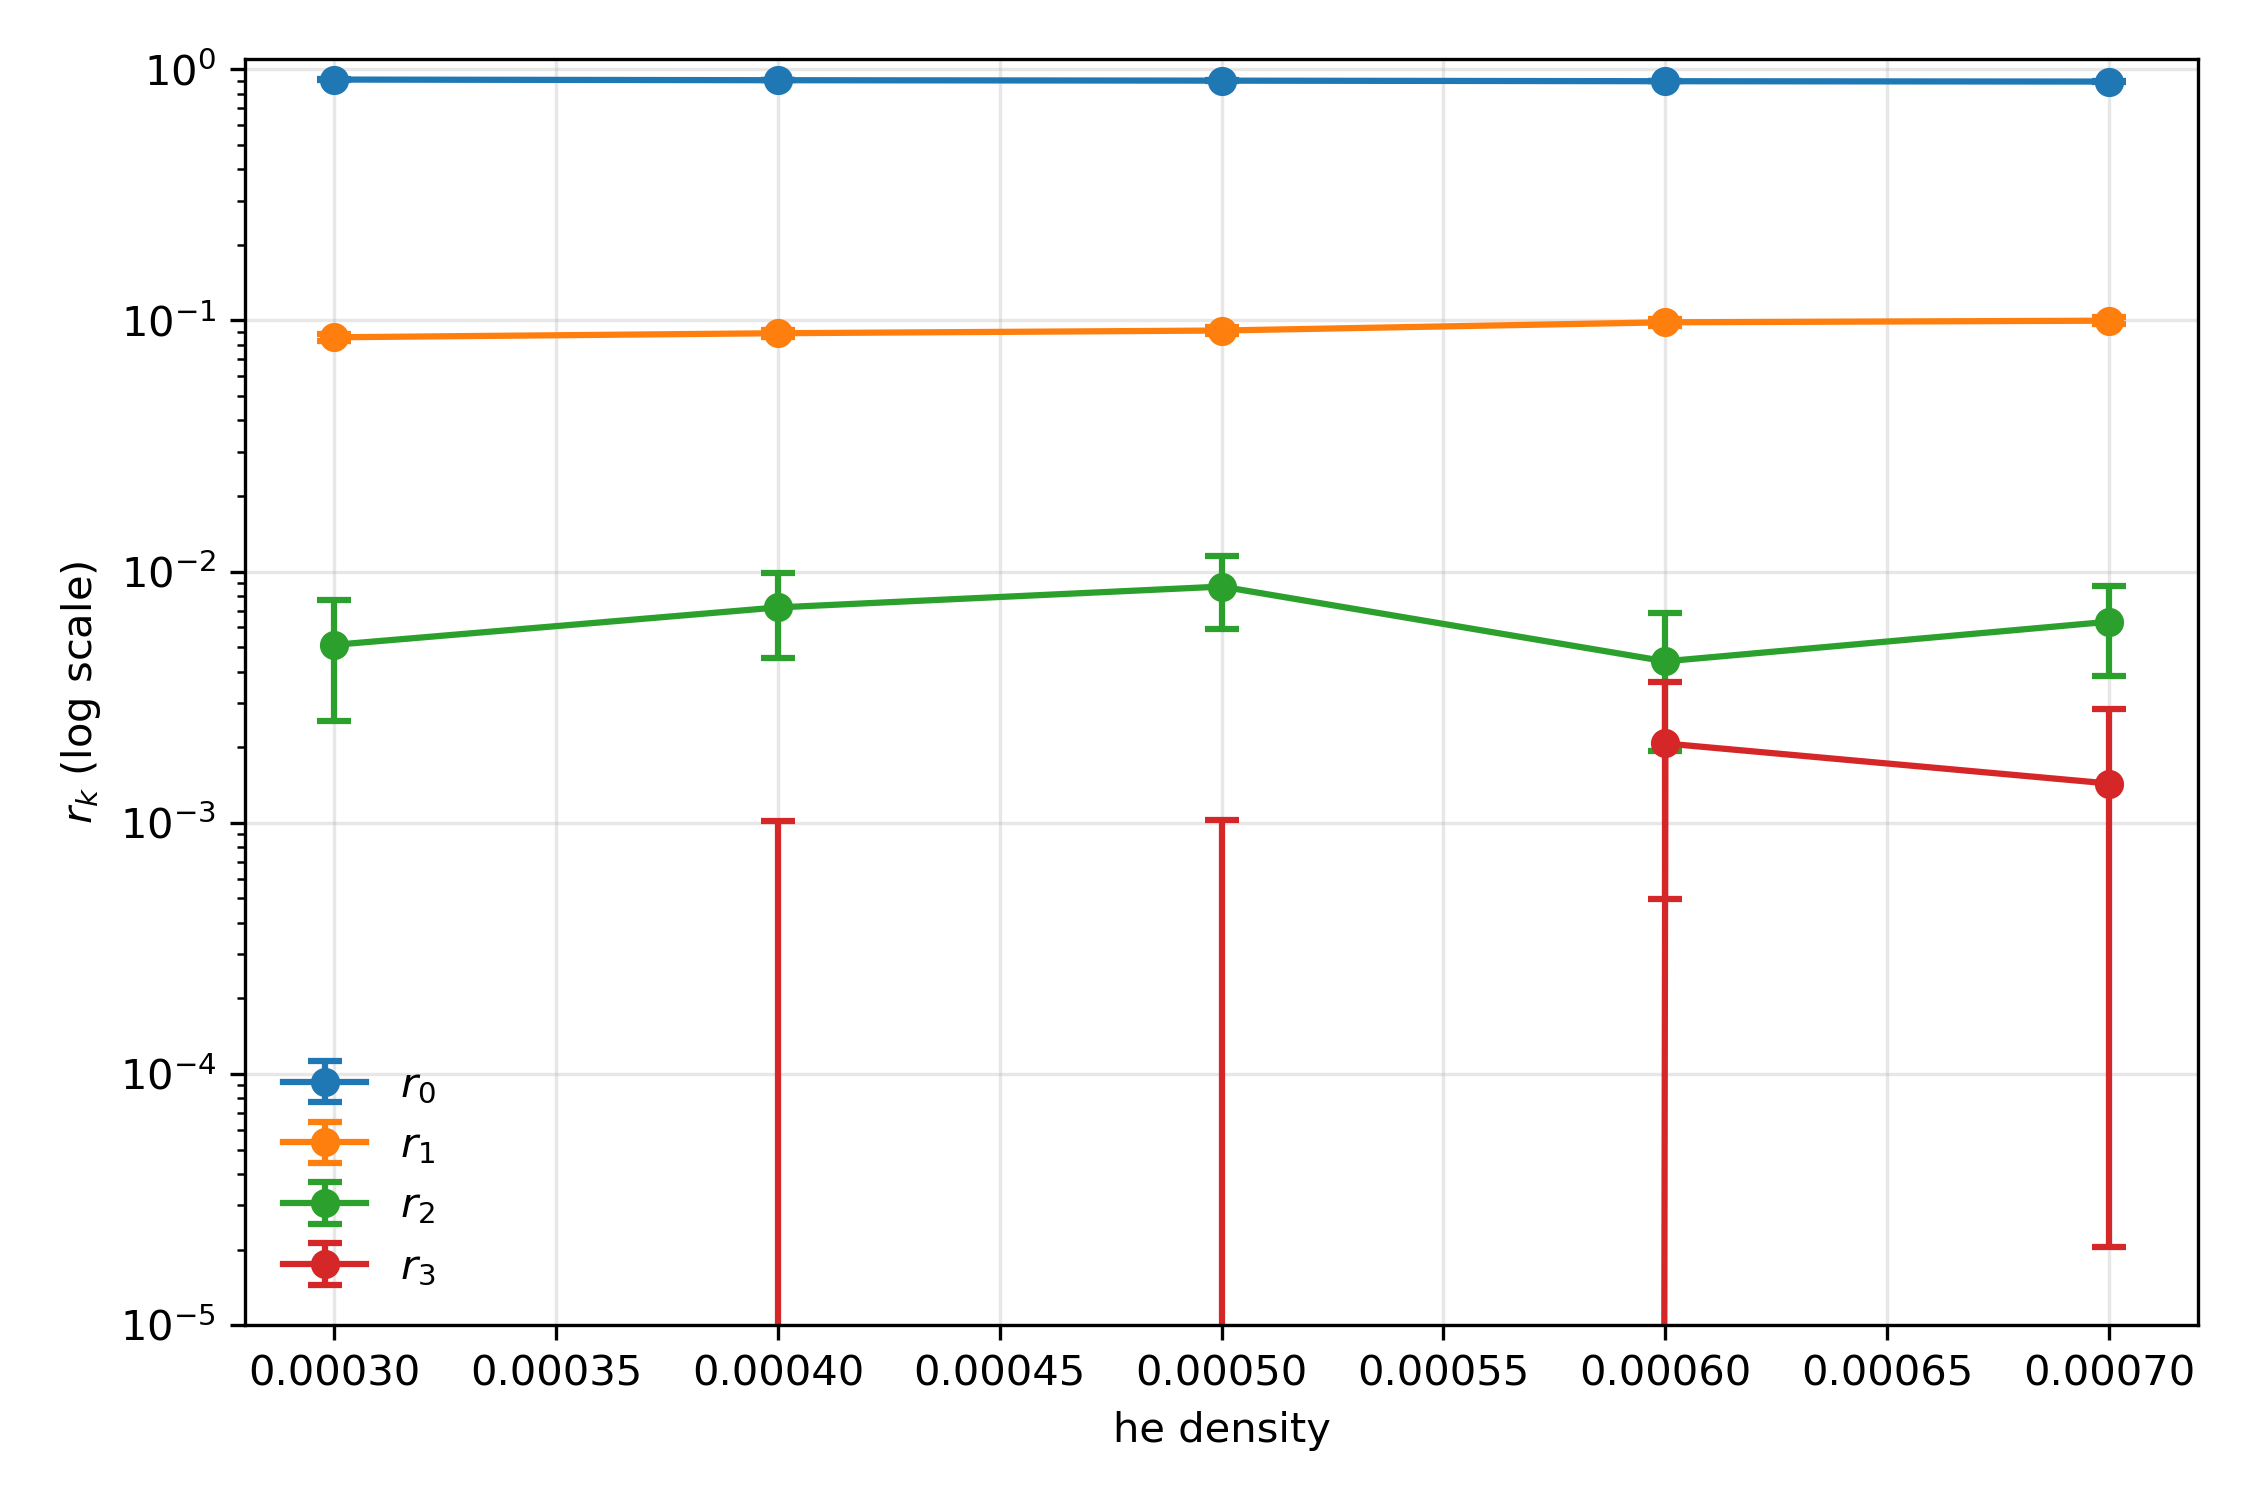
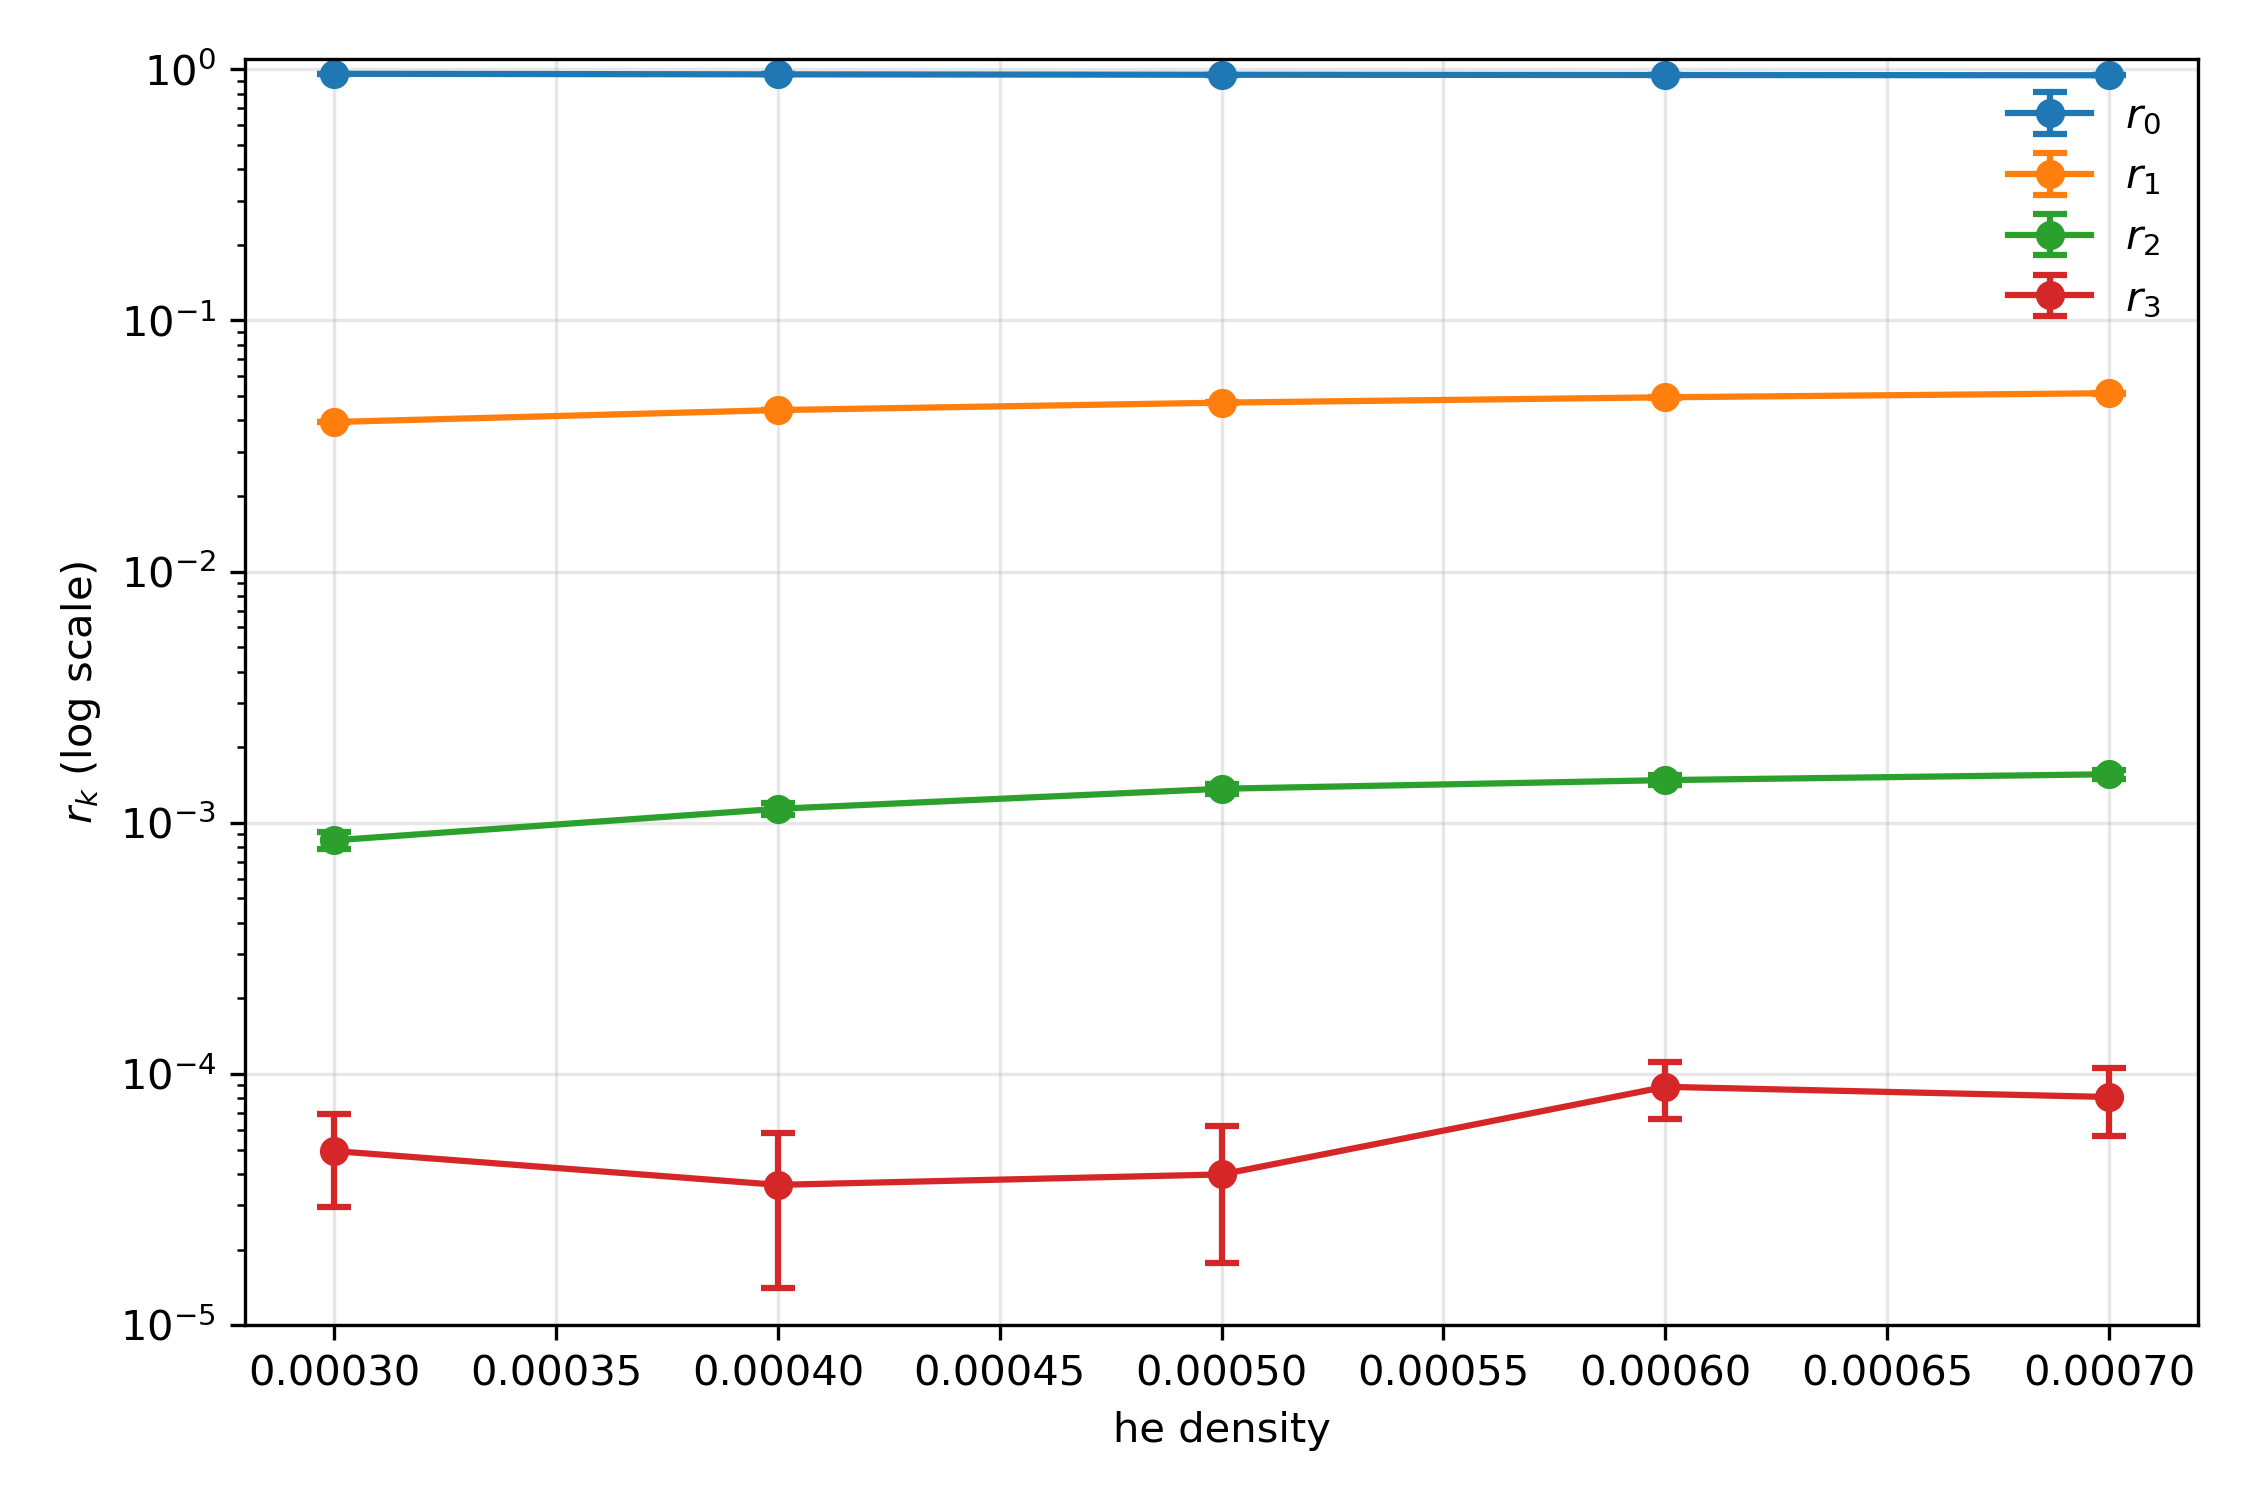
parellel bootstrapping works well now

diff --git a/bootstrap.py b/bootstrap.py
@@ -101,26 +101,33 @@ def _init_worker_shm(shm_name, shape, dtype, offsets, sr, seg_dur, seed):
 
 
 def _worker_bootstrap_shm(b: int):
-    # Access shared array (no copy)
     all_times = np.ndarray(_SHAPE, dtype=_DTYPE, buffer=_SHM.buf)
 
     rng = np.random.default_rng(_SEED + b)
-    n_seg = len(_OFFSETS)
+    n_seg = _OFFSETS.shape[0]  # make _OFFSETS a (n_seg,2) int64 array
     idx = rng.integers(0, n_seg, size=n_seg)
 
-    parts = []
-    offset = 0.0
+    # pass 1: total length
+    total = 0
     for j in idx:
-        start, end = _OFFSETS[j]
-        seg = all_times[start:end]  # View into shared memory
-        if seg.size:
-            parts.append(seg + offset)  # Only this creates a copy
-        offset += _SEG_DUR
-
-    if not parts:
+        s, e = _OFFSETS[j]
+        total += e - s
+    if total == 0:
         return None
 
-    times = np.concatenate(parts)
+    # allocate once
+    times = np.empty(total, dtype=all_times.dtype)
+
+    # pass 2: fill
+    pos = 0
+    offset = 0.0
+    for j in idx:
+        s, e = _OFFSETS[j]
+        m = e - s
+        if m:
+            times[pos : pos + m] = all_times[s:e] + offset
+            pos += m
+        offset += _SEG_DUR
 
     rplusa_dist, a_dist = sr_histograms_twoptr(
         times, _SR.predelay, _SR.gate, _SR.delay, cap=64
@@ -152,15 +159,12 @@ def analyze_with_bootstrap_parallel(
     """
     LIST-mode block bootstrap with parallel execution.
     """
+    start_time = time.perf_counter()
     if n_workers is None:
         n_workers = mp.cpu_count()
 
-    stop = start_mem_sampler(2.0)
-
     # Load detection times
-    log_mem("start")
     ct = openmc.read_collision_track_hdf5(str(collision_track_path))
-    log_mem("after read")
 
     absorption_events = ct[ct["event_mt"] == 101]
     detection_times = np.sort(absorption_events["time"])
@@ -174,7 +178,6 @@ def analyze_with_bootstrap_parallel(
     r_full = get_measured_multiplicity_causal(rplusa_dist_full, a_dist_full)
 
     del ct, absorption_events  # Free memory
-    log_mem("after detection_times")
 
     t_min = float(detection_times.min())
     t_max = float(detection_times.max())
@@ -197,13 +200,6 @@ def analyze_with_bootstrap_parallel(
 
     offsets = np.column_stack([cuts[:-1], cuts[1:]]).astype(np.int64)
 
-    # segments = [
-    #     detection_times[cuts[i] : cuts[i + 1]] - segment_edges[i]
-    #     for i in range(n_segments)
-    # ]
-
-    log_mem("after segments")
-
     # Create shared memory
     shm = shared_memory.SharedMemory(create=True, size=normalized.nbytes)
     shm_array = np.ndarray(normalized.shape, dtype=normalized.dtype, buffer=shm.buf)
@@ -218,16 +214,11 @@ def analyze_with_bootstrap_parallel(
         f"Starting parallel bootstrap with {n_workers} workers and chunk size {chunk_size}..."
     )
 
-    # boots = []
-    # with ProcessPoolExecutor(
-    #     max_workers=n_workers,
-    #     initializer=_init_worker,
-    #     initargs=(segments, sr, segment_duration, seed),
-    # ) as ex:
-    #     (log_mem("pool started"),)
-    #     results = ex.map(_worker_bootstrap, range(n_bootstrap), chunksize=20)
-    #     boots = [r for r in results if r is not None]
-    #
+    # TIMING
+    print(f"bootstrapping pre loop took {time.perf_counter() - start_time:.3f} seconds")
+    start_time = time.perf_counter()
+
+    # START PARALLELIZER
     try:
         with ProcessPoolExecutor(
             max_workers=n_workers,
@@ -249,10 +240,11 @@ def analyze_with_bootstrap_parallel(
     finally:
         shm.close()
         shm.unlink()
-    print(f"Completed {len(boots)}/{n_bootstrap} bootstrap samples")
 
-    log_mem("after pool")
-    stop.set()
+    # TIMING
+    print(f"bootstrapping loop took {time.perf_counter() - start_time:.3f} seconds")
+
+    print(f"Completed {len(boots)}/{n_bootstrap} bootstrap samples")
 
     # Compute statistics
     L = max(len(r) for r in boots)
@@ -280,7 +272,7 @@ if __name__ == "__main__":
         col_track_file,
         sr,
         n_bootstrap=100,
-        segment_duration=10.0,
+        segment_duration=1.0,
         seed=12346,
         n_workers=32,
         chunk_size=1,

diff --git a/plot_sweep_bootstrap.py b/plot_sweep_bootstrap.py
@@ -327,14 +327,14 @@ def plot_results_overlay(
 
 def main() -> None:
     OUTPUT_ROOT = Path("outputs")
-
+    #
     # PATTERN = "be_radius_*"
     # FIG_PATH = Path("figures/be_radius_plot.png")
     # X_LABEL = "be radius"
 
-    PATTERN = "n2n_scale_*"
-    FIG_PATH = Path("figures/n2n_scale_plot.png")
-    X_LABEL = "n,2n scale factor"
+    # PATTERN = "n2n_scale_*"
+    # FIG_PATH = Path("figures/n2n_scale_plot.png")
+    # X_LABEL = "n,2n scale factor"
 
     # PATTERN = "rate_*"
     # FIG_PATH = Path("figures/source_rate_plot.png")
@@ -344,7 +344,7 @@ def main() -> None:
     # FIG_PATH = Path("figures/he_density_plot.png")
     # X_LABEL = "he density"
 
-    N_PARTICLES = 1e6
+    N_PARTICLES = 1e8
 
     PREDELAY = 4e-6
     GATE = 28e-6
@@ -384,7 +384,7 @@ def main() -> None:
             n_bootstrap=500,
             segment_duration=10.0,
             seed=12346,
-            n_workers=10,
+            n_workers=32,
         )
 
         r_means.append(r_mean)

diff --git a/sweep_Be_radius.py b/sweep_Be_radius.py
@@ -12,9 +12,9 @@ if __name__ == "__main__":
     output_root = base_dir / "outputs"
 
     base_cfg = ReplicateConfig(
-        n_replicates=20,
-        particles_per_rep=5_000_000,
-        gate=85e-6,
+        n_replicates=1,
+        particles_per_rep=100_000_000,
+        gate=28e-6,
         predelay=4e-6,
         delay=1000e-6,
         rate=3e4,

diff --git a/sweep_He_density.py b/sweep_He_density.py
@@ -12,9 +12,9 @@ if __name__ == "__main__":
     output_root = base_dir / "outputs"
 
     base_cfg = ReplicateConfig(
-        n_replicates=10,
-        particles_per_rep=1_000_000,
-        gate=85e-6,
+        n_replicates=1,
+        particles_per_rep=100_000_000,
+        gate=28e-6,
         predelay=4e-6,
         delay=1000e-6,
         rate=3e4,

diff --git a/sweep_source_rates.py b/sweep_source_rates.py
@@ -12,9 +12,9 @@ if __name__ == "__main__":
     output_root = base_dir / "outputs"
 
     base_cfg = ReplicateConfig(
-        n_replicates=10,
-        particles_per_rep=1_000_000,
-        gate=85e-6,
+        n_replicates=1,
+        particles_per_rep=100_000_000,
+        gate=28e-6,
         predelay=4e-6,
         delay=1000e-6,
         rate=3e4,

diff --git a/find_sigma_be9_endf.py b/find_sigma_be9_endf.py
@@ -1,0 +1,11 @@
+import openmc
+
+BE9_PATH = "/home/philip/Documents/endf-b8.0-hdf5/endfb-viii.0-hdf5/neutron/Be9.h5"
+
+
+# Load the evaluation
+be9 = openmc.data.IncidentNeutron.from_hdf5(BE9_PATH)
+
+# Check if covariance data exists
+# MT=16 is (n,2n)
+print(be9.reactions[16])
